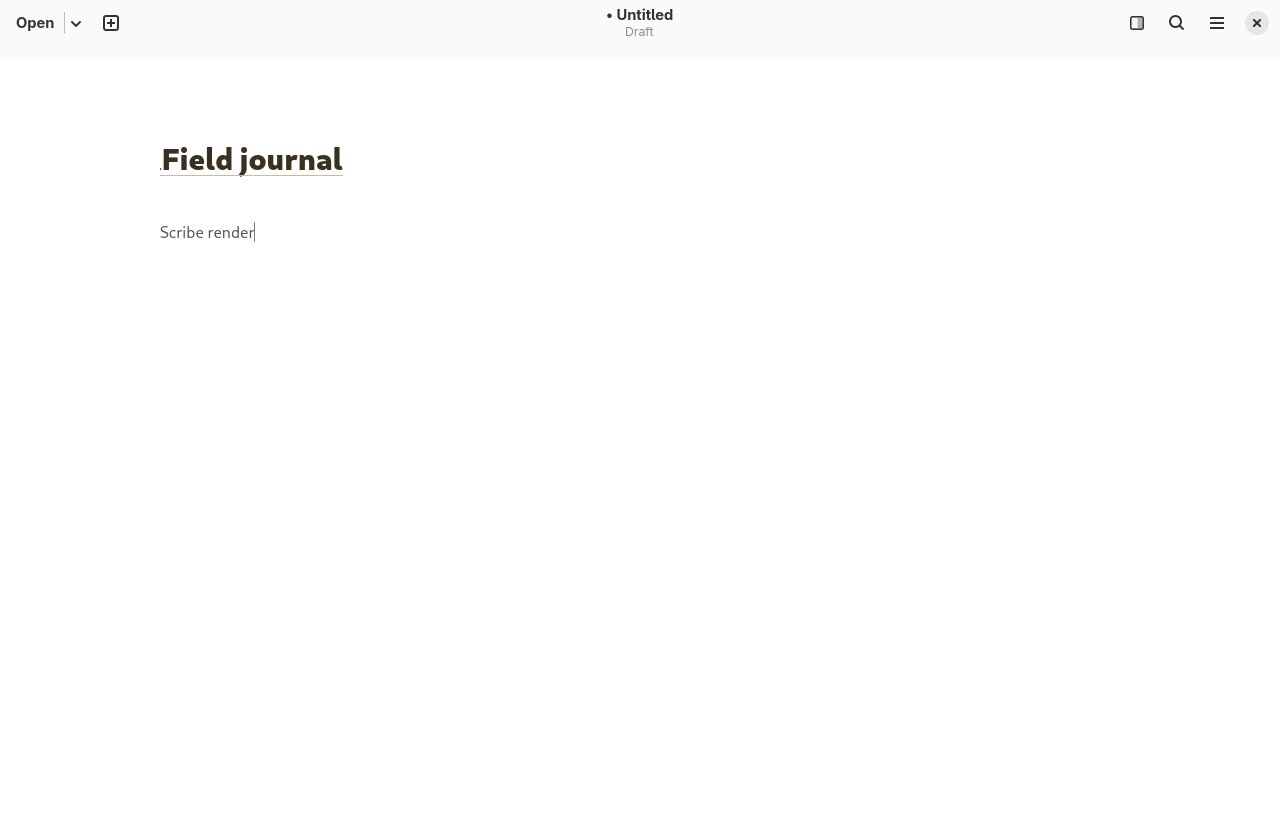
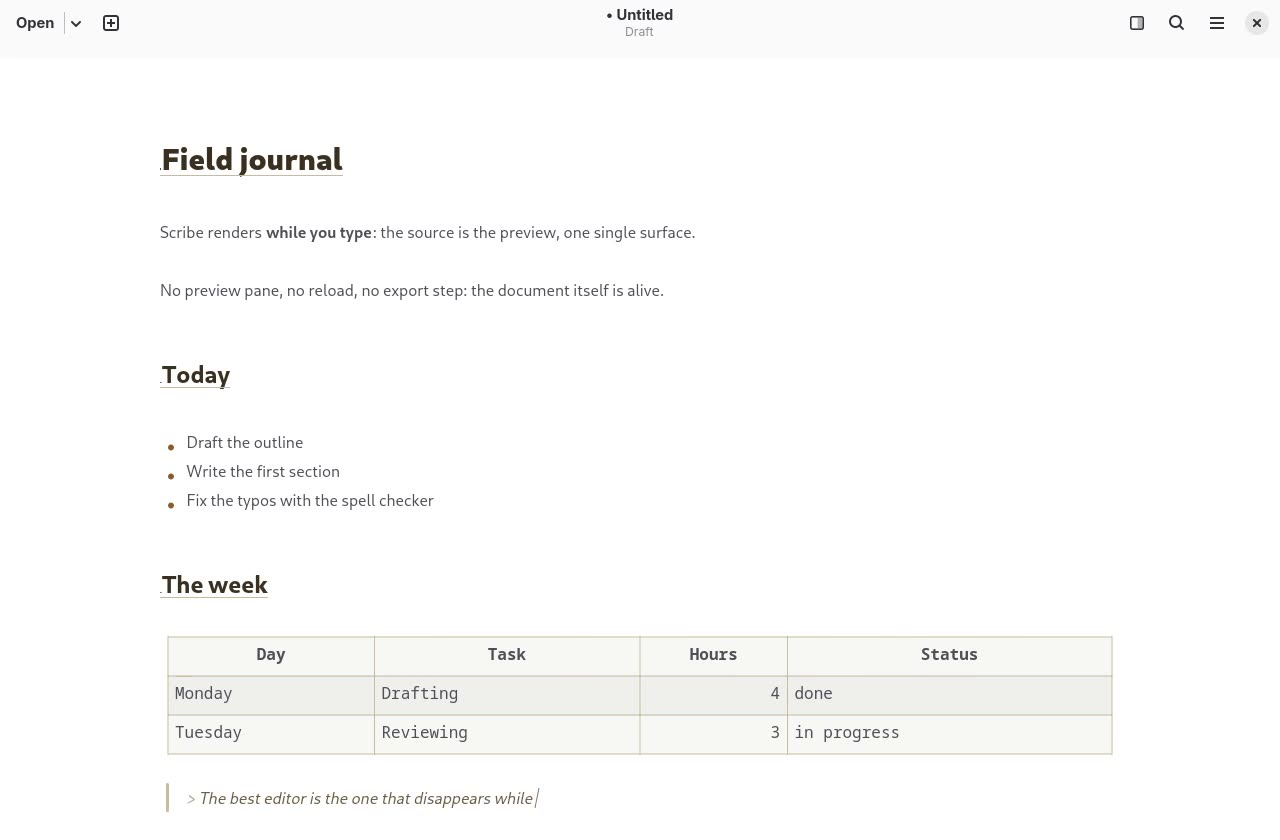
fix(site): restore the install tab styling and the hero poster fallback (#148)

diff --git a/landing/styles.css b/landing/styles.css
@@ -252,7 +252,6 @@ td.scribe-col { background: rgba(0, 113, 227, 0.07); }
 html[data-theme="dark"] td.scribe-col { background: rgba(41, 151, 255, 0.1); }
 .sym { font-weight: 700; margin-right: 6px; font-variant-numeric: tabular-nums; }
 
-.not-title { font-size: 26px; font-weight: 700; letter-spacing: -0.02em; margin: 56px auto 14px; max-width: 62ch; }
 /* ---------- Honest block: what Scribe does not do ---------- */
 .honest-block {
   margin-top: 52px;
@@ -301,17 +300,8 @@ html[data-theme="dark"] td.scribe-col { background: rgba(41, 151, 255, 0.1); }
 }
 
 /* ---------- Install: numbered steps, copy inside the box ---------- */
-.step-num {
-  display: inline-block;
-  font-family: "Adwaita Mono", "Fira Mono", "DejaVu Sans Mono", monospace;
-  font-size: 13px;
-  font-weight: 700;
-  letter-spacing: 0.06em;
-  color: var(--accent);
-  margin-bottom: 10px;
-}
 .code-wrap { position: relative; }
-.code-wrap .codebox { padding-right: 136px; }
+.code-wrap .codebox { padding-right: 18px; padding-top: 46px; }
 .code-wrap .copy-btn { position: absolute; top: 10px; right: 10px; }
 .soon-badge {
   display: inline-block;
@@ -365,15 +355,12 @@ html[data-theme="dark"] td.scribe-col { background: rgba(41, 151, 255, 0.1); }
 .sources { font-size: 13px; color: var(--muted); margin: 26px auto 0; max-width: 62ch; }
 
 /* ---------- Install ---------- */
-.install-grid { display: grid; grid-template-columns: 1.35fr 1fr 1fr; gap: 22px; margin-top: 44px; align-items: start; }
-.install-card h3 { font-size: 18px; font-weight: 700; letter-spacing: -0.01em; margin-bottom: 10px; }
-.install-card p { font-size: 14.5px; color: var(--muted); margin-bottom: 14px; }
-.flathub-card { border: 1.5px dashed var(--hairline); border-radius: var(--radius); padding: 22px; }
 .codebox {
   background: var(--video-bg); color: #f0efee;
   border-radius: 12px; padding: 16px 18px;
   font-family: "Adwaita Mono", "Fira Mono", "DejaVu Sans Mono", monospace;
   font-size: 12.5px; line-height: 1.75; overflow-x: auto; margin-bottom: 10px;
+  white-space: pre-wrap; overflow-wrap: anywhere;
 }
 .copy-btn {
   border: 1px solid var(--hairline); border-radius: 999px;
@@ -384,7 +371,8 @@ html[data-theme="dark"] td.scribe-col { background: rgba(41, 151, 255, 0.1); }
 }
 .copy-btn:hover { background: var(--surface); }
 .copy-btn:active { transform: scale(0.96); }
-.reqs { display: grid; grid-template-columns: 1fr 1fr; gap: 22px; margin-top: 40px; }
+html[data-theme="dark"] .codebox { background: #1c1c21; }
+.reqs { display: grid; grid-template-columns: 1fr 1fr; gap: 22px; max-width: 800px; margin: 40px auto 0; }
 .reqs h3 { font-size: 17px; font-weight: 700; margin-bottom: 8px; }
 .reqs p { font-size: 15px; color: var(--muted); }
 
@@ -413,9 +401,10 @@ section#about { text-align: center; padding-bottom: 40px; }
 /* ---------- Install tabs ---------- */
 .tabs {
   position: relative;
-  display: inline-flex;
+  display: flex;
+  width: fit-content;
   gap: 2px;
-  margin-top: 36px;
+  margin: 36px auto 0;
   padding: 4px;
   background: var(--surface);
   border-radius: 999px;
@@ -425,6 +414,8 @@ section#about { text-align: center; padding-bottom: 40px; }
 }
 .tabs::-webkit-scrollbar { display: none; }
 .tab {
+  position: relative;
+  z-index: 1;
   border: 0;
   background: transparent;
   color: var(--muted);
@@ -442,6 +433,7 @@ section#about { text-align: center; padding-bottom: 40px; }
 .tab[aria-selected="true"] { color: var(--text); }
 .tabs-indicator {
   position: absolute;
+  z-index: 0;
   top: 4px;
   left: 0;
   height: calc(100% - 8px);
@@ -452,7 +444,7 @@ section#about { text-align: center; padding-bottom: 40px; }
   transition: transform 260ms cubic-bezier(0.22, 1, 0.36, 1), width 260ms cubic-bezier(0.22, 1, 0.36, 1);
   pointer-events: none;
 }
-.tab-panels { margin-top: 26px; max-width: 800px; }
+.tab-panels { margin: 26px auto 0; max-width: 800px; }
 .tab-panel { animation: panel-in 340ms cubic-bezier(0.22, 1, 0.36, 1) both; }
 .tab-panel[hidden] { display: none; }
 @keyframes panel-in { from { opacity: 0; transform: translateY(12px); } to { opacity: 1; transform: none; } }
@@ -501,14 +493,12 @@ section#about { text-align: center; padding-bottom: 40px; }
   .statement { font-size: clamp(30px, 7vw, 42px); }
   .slider { flex-direction: column; }
   .slider-arrow { display: none; }
-  .install-grid { grid-template-columns: 1fr; }
   .reqs { grid-template-columns: 1fr; }
   .nav-cta { padding: 6px 12px; }
   .honest-block { padding: 30px 22px; margin-top: 40px; }
   .honest-list { grid-template-columns: 1fr; gap: 0; }
   .cta-final { padding: 84px 0 64px; }
-  .code-wrap .codebox { padding-right: 16px; padding-bottom: 48px; }
-  .code-wrap .copy-btn { top: auto; bottom: 10px; right: 10px; }
+  .code-wrap .codebox { padding-right: 18px; }
 }
 
 /* ---------- Reduced motion ---------- */
@@ -517,4 +507,8 @@ section#about { text-align: center; padding-bottom: 40px; }
   * { transition: none !important; animation: none !important; }
   .hero-title, .hero-sub, .hero-ctas, .hero-chips, .hero-video, .nav { opacity: 1 !important; transform: none !important; filter: none !important; }
   .reveal { opacity: 1 !important; }
+  /* The clip opens on an empty buffer, so a frozen video shows nothing useful.
+     Show the poster frame (a full document) instead of the paused first frame. */
+  .hero-video video { visibility: hidden; }
+  .hero-video { background: var(--video-bg) url("assets/demo-poster.jpg") center / cover no-repeat; }
 }

diff --git a/landing/index.html b/landing/index.html
@@ -36,7 +36,7 @@
     })();
   </script>
   <link rel="preload" href="assets/fonts/Cantarell-VF.woff2" as="font" type="font/woff2" crossorigin>
-  <link rel="stylesheet" href="styles.css?v=7">
+  <link rel="stylesheet" href="styles.css?v=8">
   <script type="application/ld+json">
   {
     "@context": "https://schema.org",
@@ -98,7 +98,7 @@
         <span class="chip ghost" data-i18n="hero.flathub"></span>
       </p>
       <figure class="hero-video">
-        <video id="demo-video" autoplay muted loop playsinline preload="metadata" poster="assets/demo-poster.jpg?v=2" aria-label="Scribe demo: Markdown typing itself, already rendered">
+        <video id="demo-video" autoplay muted loop playsinline preload="metadata" poster="assets/demo-poster.jpg?v=4" aria-label="Scribe demo: Markdown typing itself, already rendered">
           <source src="assets/scribe-demo-v4.mp4?v=3" type="video/mp4">
         </video>
       </figure>
@@ -161,11 +161,11 @@
       <h2 class="statement" data-i18n="install.title"></h2>
       <p class="lead" data-i18n="install.lead"></p>
       <div class="tabs" role="tablist" data-i18n-aria="install.tabsLabel">
-        <button type="button" role="tab" id="tab-deb" data-tab="deb" aria-controls="panel-deb" aria-selected="true">.deb</button>
-        <button type="button" role="tab" id="tab-rpm" data-tab="rpm" aria-controls="panel-rpm" aria-selected="false" tabindex="-1">.rpm</button>
-        <button type="button" role="tab" id="tab-appimage" data-tab="appimage" aria-controls="panel-appimage" aria-selected="false" tabindex="-1">AppImage</button>
-        <button type="button" role="tab" id="tab-flathub" data-tab="flathub" aria-controls="panel-flathub" aria-selected="false" tabindex="-1">Flathub</button>
-        <button type="button" role="tab" id="tab-aur" data-tab="aur" aria-controls="panel-aur" aria-selected="false" tabindex="-1">AUR</button>
+        <button type="button" class="tab" role="tab" id="tab-deb" data-tab="deb" aria-controls="panel-deb" aria-selected="true">.deb</button>
+        <button type="button" class="tab" role="tab" id="tab-rpm" data-tab="rpm" aria-controls="panel-rpm" aria-selected="false" tabindex="-1">.rpm</button>
+        <button type="button" class="tab" role="tab" id="tab-appimage" data-tab="appimage" aria-controls="panel-appimage" aria-selected="false" tabindex="-1">AppImage</button>
+        <button type="button" class="tab" role="tab" id="tab-flathub" data-tab="flathub" aria-controls="panel-flathub" aria-selected="false" tabindex="-1">Flathub</button>
+        <button type="button" class="tab" role="tab" id="tab-aur" data-tab="aur" aria-controls="panel-aur" aria-selected="false" tabindex="-1">AUR</button>
         <span class="tabs-indicator" aria-hidden="true"></span>
       </div>
       <div class="tab-panels">
@@ -265,6 +265,6 @@ chmod +x Scribe-&lt;version&gt;-x86_64.AppImage
   </footer>
 
   <script src="i18n.js?v=8"></script>
-  <script src="app.js?v=5"></script>
+  <script src="app.js?v=6"></script>
 </body>
 </html>

diff --git a/landing/app.js b/landing/app.js
@@ -283,13 +283,10 @@
   function wireVideo() {
     var video = document.getElementById("demo-video");
     if (!video) { return; }
-    if (reducedMotion.matches) {
-      video.pause();
-      video.removeAttribute("autoplay");
-      video.controls = true;
-    }
+    /* With reduced motion the stylesheet swaps the clip for its poster frame,
+       so the only thing left to handle here is coming back from it. */
     reducedMotion.addEventListener("change", function (ev) {
-      if (ev.matches) { video.pause(); video.controls = true; } else { video.controls = false; video.play().catch(function () {}); }
+      if (!ev.matches) { video.play().catch(function () {}); }
     });
   }
 
